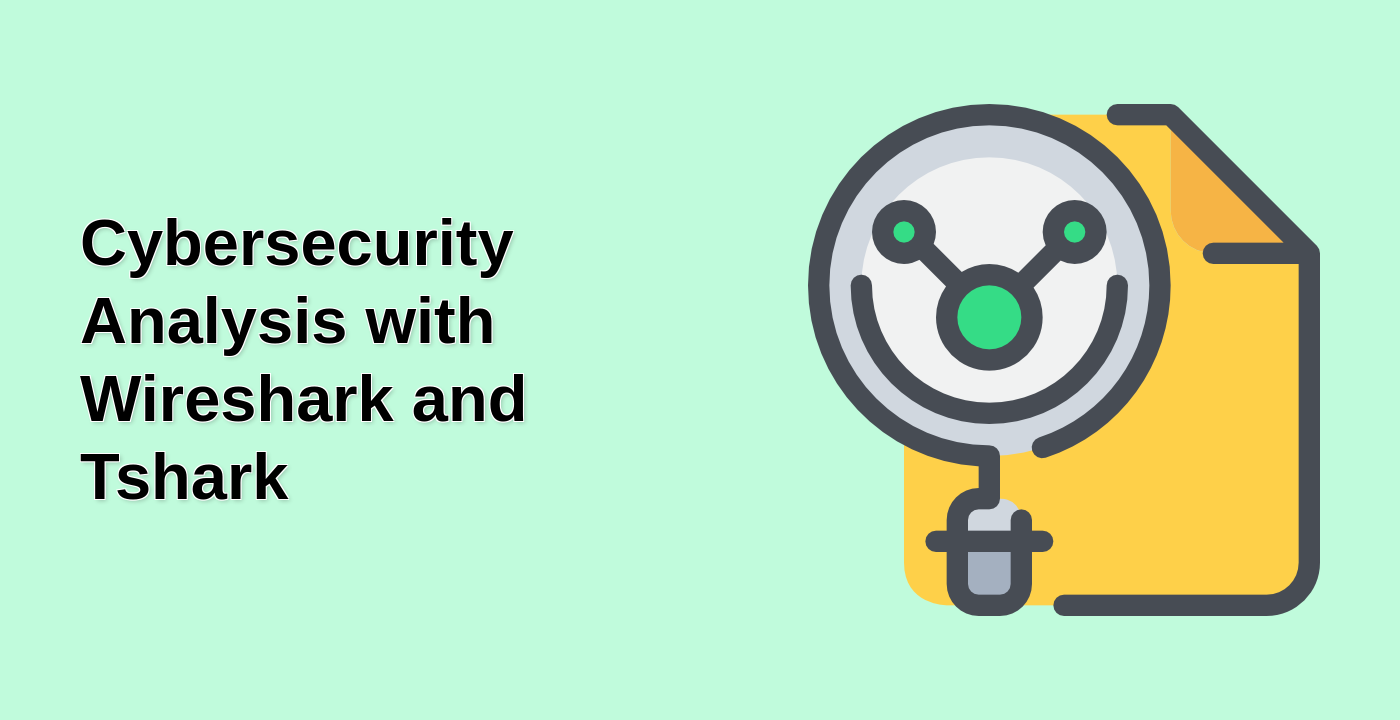
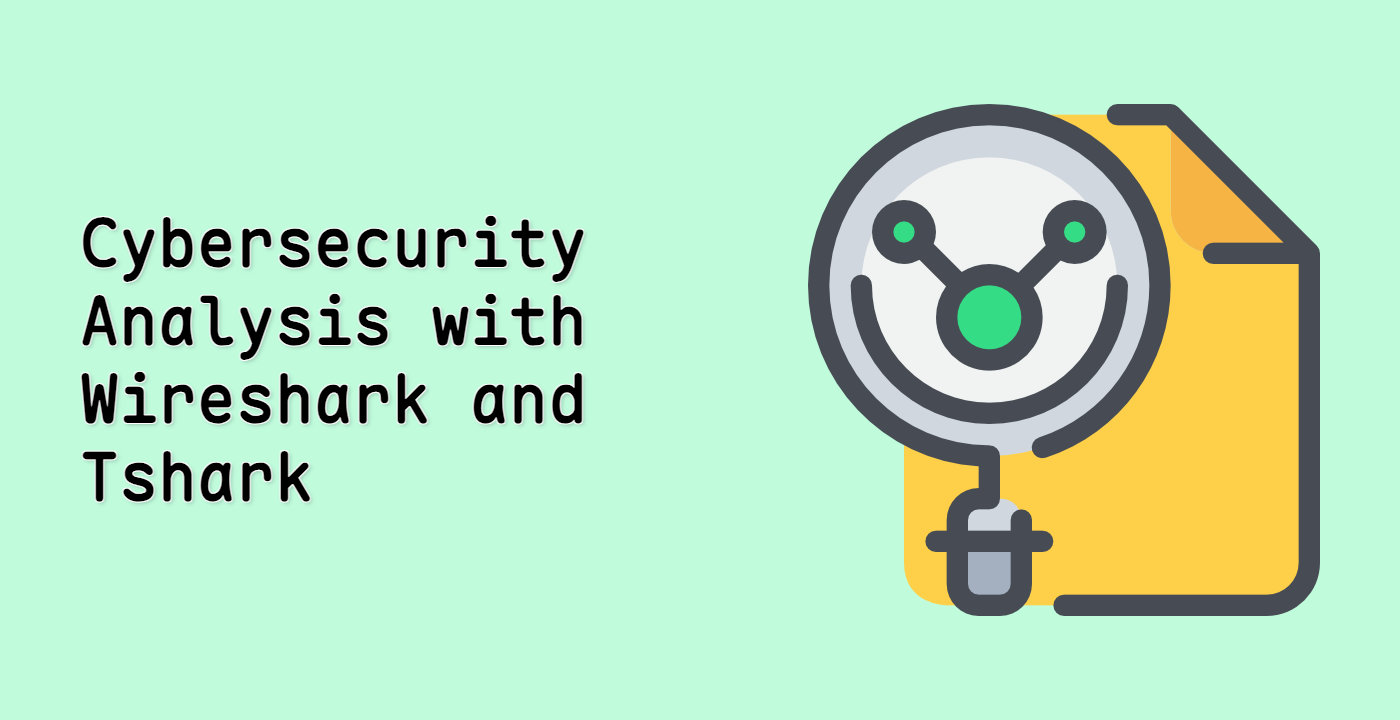
chore: update preview.html structure and styling, enhance font handling, and update course cover image for better presentation

Changed region(s): [[0.0614, 0.3056, 0.43, 0.7028]]

diff --git a/preview.html b/preview.html
@@ -1,108 +1,108 @@
 <!DOCTYPE html>
 <html lang="en">
+  <head>
+    <meta charset="UTF-8" />
+    <meta name="viewport" content="width=device-width, initial-scale=1.0" />
+    <link rel="stylesheet" href="https://static.zeoseven.com/zsft/442/main/result.css" />
+    <script src="https://cdn.tailwindcss.com"></script>
+    <style>
+      * {
+        font-family: "Maple Mono NF CN", monospace;
+      }
 
-<head>
-  <meta charset="UTF-8" />
-  <meta name="viewport" content="width=device-width, initial-scale=1.0" />
-  <link rel='stylesheet'
-    href='https://chinese-fonts-cdn.deno.dev/packages/maple-mono-cn/dist/MapleMono-CN-Bold/result.css' />
-  <script src="https://cdn.tailwindcss.com"></script>
-  <style>
-    * {
-      font-family: "Maple Mono CN", sans-serif;
-    }
+      body {
+        margin: 0;
+        padding: 0;
+      }
+    </style>
+  </head>
 
-    body {
-      margin: 0;
-      padding: 0;
-    }
-  </style>
-</head>
-
-<body>
-  <div class="w-[1400px] h-[720px]" id="background">
-    <div class="w-[1400px] h-[720px] flex justify-between items-center px-20">
-      <div class="w-[600px] h-[512px] flex flex-col justify-start gap-4 overflow-hidden">
-        <div id="course-title" class="text-black font-bold w-[600px] flex-1 flex items-center text-pretty" style="
-              font-size: clamp(24px, 5vw, 75px);
+  <body>
+    <div class="w-[1400px] h-[720px]" id="background">
+      <div class="w-[1400px] h-[720px] flex justify-between items-center px-20">
+        <div class="w-[600px] h-[512px] flex flex-col justify-start gap-4 overflow-hidden">
+          <div
+            id="course-title"
+            class="text-black font-bold w-[600px] flex-1 flex items-center text-pretty"
+            style="
               line-height: 1.2;
               text-shadow: -1px -1px 0 white, 1px -1px 0 white, -1px 1px 0 white, 1px 1px 0 white,
                 2px 2px 4px rgba(0, 0, 0, 0.2);
-            "></div>
-      </div>
-      <div class="w-[512px] h-[512px] justify-center items-center flex">
-        <img id="course-image" class="w-[512px] h-[512px]" src="" />
+            "
+          ></div>
+        </div>
+        <div class="w-[512px] h-[512px] justify-center items-center flex">
+          <img id="course-image" class="w-[512px] h-[512px]" src="" />
+        </div>
       </div>
     </div>
-  </div>
 
-  <script>
-    // 获取 URL 参数
-    const urlParams = new URLSearchParams(window.location.search);
-    const courseType = urlParams.get("course_type") || "normal";
-    const courseName = urlParams.get("course_name") || "Linux for Noobs 基础入门";
-    const lang = urlParams.get("lang") || "en";
+    <script>
+      // 获取 URL 参数
+      const urlParams = new URLSearchParams(window.location.search);
+      const courseType = urlParams.get("course_type") || "normal";
+      const courseName = urlParams.get("course_name") || "Linux for Noobs 基础入门";
+      const lang = urlParams.get("lang") || "en";
 
-    // 处理图片 URL
-    const imageUrl = urlParams.get("image_url") || "https://placehold.co/512x512";
-    const imgElement = document.getElementById("course-image");
+      // 处理图片 URL
+      const imageUrl = urlParams.get("image_url") || "https://placehold.co/512x512";
+      const imgElement = document.getElementById("course-image");
 
-    // 如果是相对路径（以 ./ 或 ../ 开头），转换为相对于当前页面的绝对路径
-    if (imageUrl.startsWith("./") || imageUrl.startsWith("../")) {
-      const basePath = window.location.href.substring(0, window.location.href.lastIndexOf("/"));
-      imgElement.src = new URL(imageUrl, basePath).href;
-    } else {
-      imgElement.src = imageUrl;
-    }
-
-    // 设置语言
-    document.documentElement.lang = lang;
-
-    // 处理背景颜色参数
-    let backgroundColor = urlParams.get("bg_color") || "#f5b553";
-    // 如果颜色值不包含 #，则添加
-    if (backgroundColor && !backgroundColor.startsWith("#")) {
-      backgroundColor = "#" + backgroundColor;
-    }
-    // 验证颜色值是否有效
-    const isValidColor = /^#([0-9A-F]{3}){1,2}$/i.test(backgroundColor);
-    // 如果无效则使用默认颜色
-    if (!isValidColor) {
-      backgroundColor = "#f5b553";
-    }
-
-    // 设置课程标题并根据字符长度调整字体大小
-    const titleElement = document.getElementById("course-title");
-    titleElement.textContent = courseName;
-
-    // 根据文本长度动态调整字体大小
-    function adjustFontSize(element, text) {
-      const charCount = text.length;
-
-      // 定义字体大小阶梯
-      if (charCount <= 45) {
-        // 默认大小
-        element.style.fontSize = "clamp(24px, 5vw, 75px)";
-      } else if (charCount <= 80) {
-        // 稍小一点
-        element.style.fontSize = "clamp(22px, 4.5vw, 65px)";
-      } else if (charCount <= 120) {
-        // 中等
-        element.style.fontSize = "clamp(20px, 4vw, 55px)";
-      } else if (charCount <= 180) {
-        // 较小
-        element.style.fontSize = "clamp(18px, 3.5vw, 45px)";
+      // 如果是相对路径（以 ./ 或 ../ 开头），转换为相对于当前页面的绝对路径
+      if (imageUrl.startsWith("./") || imageUrl.startsWith("../")) {
+        const basePath = window.location.href.substring(0, window.location.href.lastIndexOf("/"));
+        imgElement.src = new URL(imageUrl, basePath).href;
       } else {
-        // 最小
-        element.style.fontSize = "clamp(16px, 3vw, 35px)";
+        imgElement.src = imageUrl;
       }
-    }
 
-    // 应用字体大小调整
-    adjustFontSize(titleElement, courseName);
+      // 设置语言
+      document.documentElement.lang = lang;
 
-    document.getElementById("background").style.backgroundColor = backgroundColor;
-  </script>
-</body>
+      // 处理背景颜色参数
+      let backgroundColor = urlParams.get("bg_color") || "#f5b553";
+      // 如果颜色值不包含 #，则添加
+      if (backgroundColor && !backgroundColor.startsWith("#")) {
+        backgroundColor = "#" + backgroundColor;
+      }
+      // 验证颜色值是否有效
+      const isValidColor = /^#([0-9A-F]{3}){1,2}$/i.test(backgroundColor);
+      // 如果无效则使用默认颜色
+      if (!isValidColor) {
+        backgroundColor = "#f5b553";
+      }
 
+      // 设置课程标题并根据字符长度调整字体大小
+      const titleElement = document.getElementById("course-title");
+      titleElement.textContent = courseName;
+
+      // 根据文本长度动态调整字体大小
+      function adjustFontSize(element, text) {
+        const charCount = text.length;
+
+        // 定义字体大小阶梯
+        if (charCount <= 45) {
+          // 默认大小
+          element.style.fontSize = "clamp(24px, 5vw, 75px)";
+        } else if (charCount <= 80) {
+          // 稍小一点
+          element.style.fontSize = "clamp(22px, 4.5vw, 65px)";
+        } else if (charCount <= 120) {
+          // 中等
+          element.style.fontSize = "clamp(20px, 4vw, 55px)";
+        } else if (charCount <= 180) {
+          // 较小
+          element.style.fontSize = "clamp(18px, 3.5vw, 45px)";
+        } else {
+          // 最小
+          element.style.fontSize = "clamp(16px, 3vw, 35px)";
+        }
+      }
+
+      // 应用字体大小调整
+      adjustFontSize(titleElement, courseName);
+
+      document.getElementById("background").style.backgroundColor = backgroundColor;
+    </script>
+  </body>
 </html>
